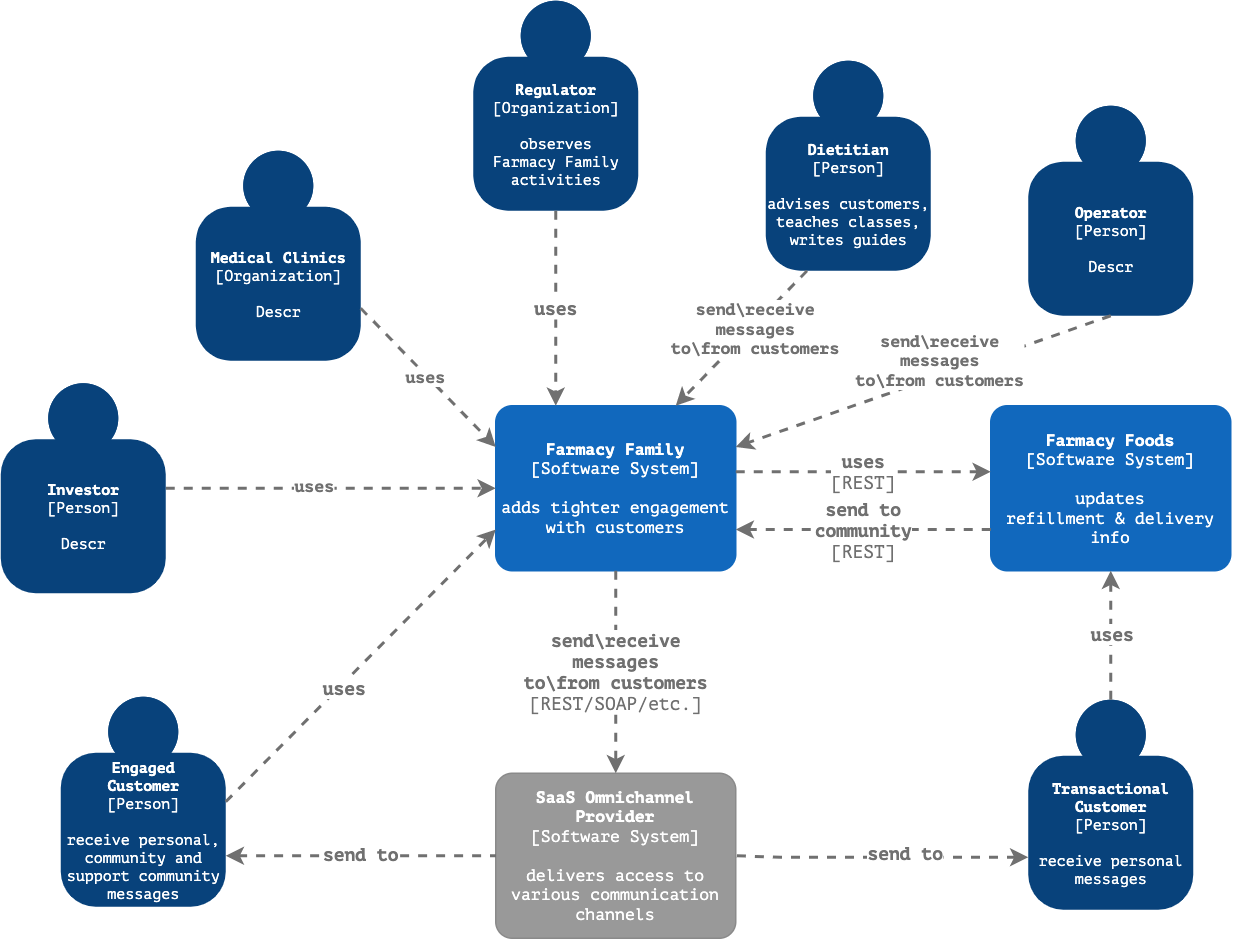
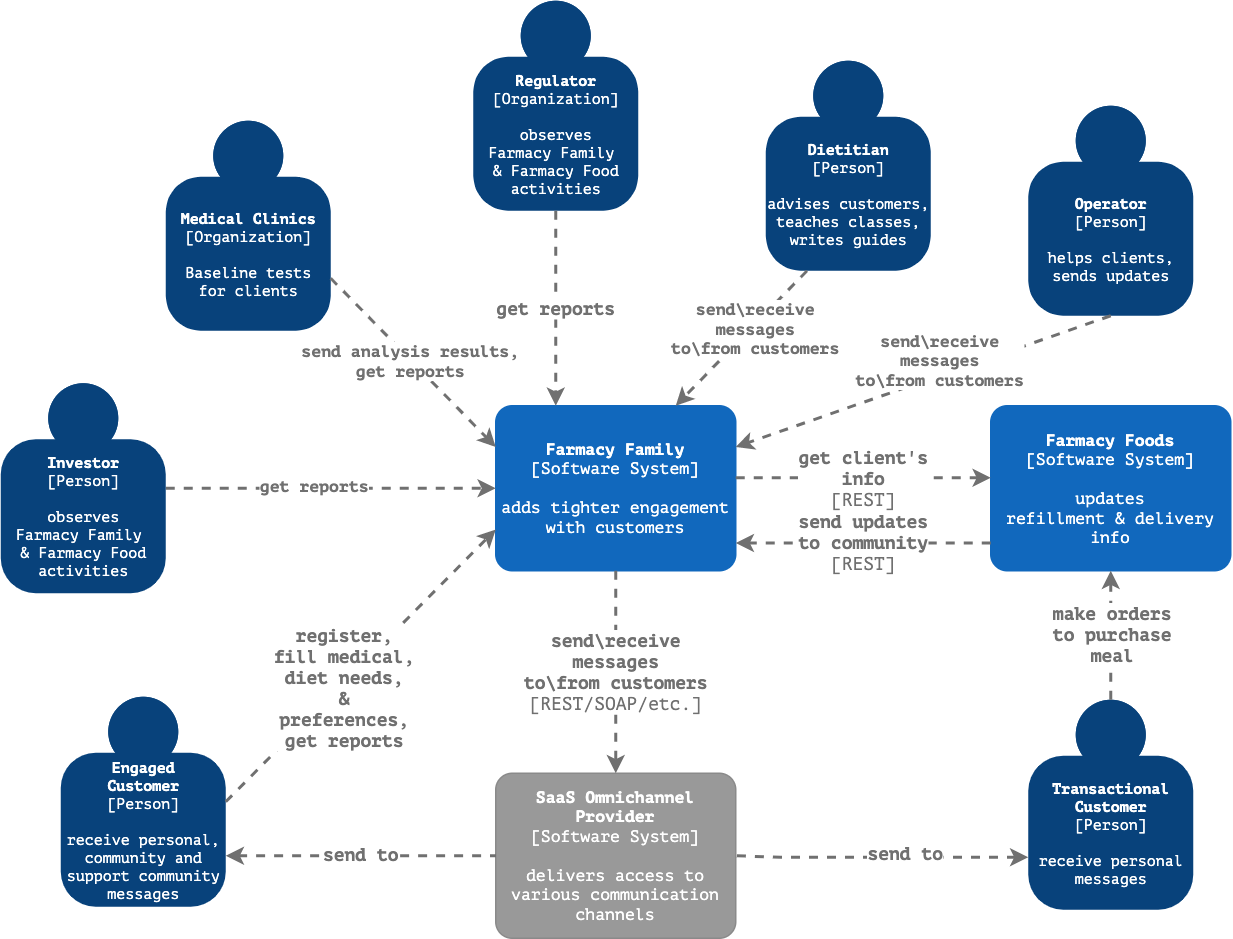
deleted assumptions & stakeholders files updated stakeholders & assumptions in Readme new diagram version

diff --git a/README.md b/README.md
@@ -14,10 +14,10 @@
     -   [Architecture Characteristics Requirements](https://github.com/sakosy/arch_katas_2021#architecture-characteristics-requirements)
     -   [Constraints](https://github.com/sakosy/arch_katas_2021#constraints)
     -   [Assumptions](https://github.com/sakosy/arch_katas_2021#assumptions)
--  [Architecture Decision Records](https://github.com/sakosy/arch_katas_2021#architecture-decision-records)
-- [Architecture](https://github.com/sakosy/arch_katas_2021#architecture)
-	- [Use Case Model](https://github.com/sakosy/arch_katas_2021#usecase-model)
-	- [System Context](https://github.com/sakosy/arch_katas_2021#system-context)
+-   [Architecture Decision Records](https://github.com/sakosy/arch_katas_2021#architecture-decision-records)
+-   [Architecture](https://github.com/sakosy/arch_katas_2021#architecture)
+	-   [Use Case Model](https://github.com/sakosy/arch_katas_2021#usecase-model)
+	-   [System Context](https://github.com/sakosy/arch_katas_2021#system-context)
 
 ## Glossary
 
@@ -47,12 +47,13 @@ FFamily is an enhancement of the existing FFoods system deals with:
 
 ## Business Case and Goals
 
-The Company primary goals are:
+The overall goal of FFamily is to connect, gather, analyze, and communicate
+
+Primary goals are:
 - develop relationships between engaged customers and nurture those relationships
 - convert transactional customers to engaged customers
 - generate analytical data from medical information to demonstrate the benefits of FFoods
 
-Thus, the overall goal of FFamily is to connect, gather, analyze, and communicate.
 
 Users: Hundreds, separated by distinct geographic zones.
 Additionally, different clusters of customers frequently consolidate around similar dietary requirements.
@@ -72,35 +73,33 @@ There are list of all stakeholders for the _Farmacy Family_
 
 | ArchCollider Stakeholder | Our Stakeholder | Concerns |
 |----|----|--------|
-| Ghost Kitchen | Ghost Kitchen | updates refillment info |
-| Subscribers | Transactional Customers | Create a menu and getting meals on time |
-| | | Get notification about arriving or delayed food to save their time |
-| | | Be informed about meal ingredients |
-| Known users | Transactional Customers | Browse catalog and buy food with guarantee of getting it when they come to pick it up |
-| | | Ease of buying process |
-| | | Be informed about meal ingredients |
+| Ghost Kitchen | Ghost Kitchen | updates refillment and delivery info |
+| Subscribers | Transactional Customers | need to be informed about engagement benefits & registration process |
+| Known users | Transactional Customers | need to be informed about engagement benefits & registration process |
 | Occasional users | Transactional Customers | Visually select a meal, get info about it and pay in the most convinient way at same time|
-| Owner | Operators | Attract all type of users |
-| | | Improve quality of provided food and service |
-| | | Information about users preferences |
-| | | Support for accounting system |
-| Nutritionists | Dietitian | Search in catalog by specific components |
-| | | Calculation % of fats\carbs\vitamins\... |
-| -- | Medical Clinics | need to be added |
+| Owner | Operators | need to communicate with customers about their issues |
+| | | communicate with community |
+| Nutritionists | Dietitian | gives advices to community |
+| | | gives personal advices |
+| | | get selective access to medical information |
+| -- | Medical Clinics | gather results of baseline tests for clients |
 | -- | Gov regulators | need to be added |
-| -- | Investors | need to be added |
+| -- | Investors | gets statistics about overall health of customers |
 | Developers | Maintenance Team | Ease of maintaining and developing the system |
 | Admins | Maintenance Team | Ease of monitoring |
-| | | Ease of configuration and scaling |
-| Food suppliers | Food suppliers | Predicted plan of purchases and delivery |
+| Food suppliers | Food suppliers | updates delivery info |
 | 3rd party kitchens | 3rd party kitchens | Same as for Ghost Kitchen |
 
 ## Assumptions
 
-| # | concerns |
+| # | Description |
 |----|----|
-| ASM-1 | kitchens refills fridges |
-
+| ASM-1 | Farmacy Food & Farmacy Family wants to inform customers about most of their activities |
+| ASM-2 | kitchens (3rd party included) wants to send updates about fridges refillment and Farmacy Food support it |
+| ASM-3 | Food suppliers wants to send updates about fridges refillment and Farmacy Food support it |
+| ASM-4 | Support Community includes all _Communities_ of Farmacy Family Customers |
+| ASM-5 | Community includes customers in some concrete neighborhood |
+| ASM-6 | Dietitians will guides classes and any other education |
 
 ## System Requirements
 
